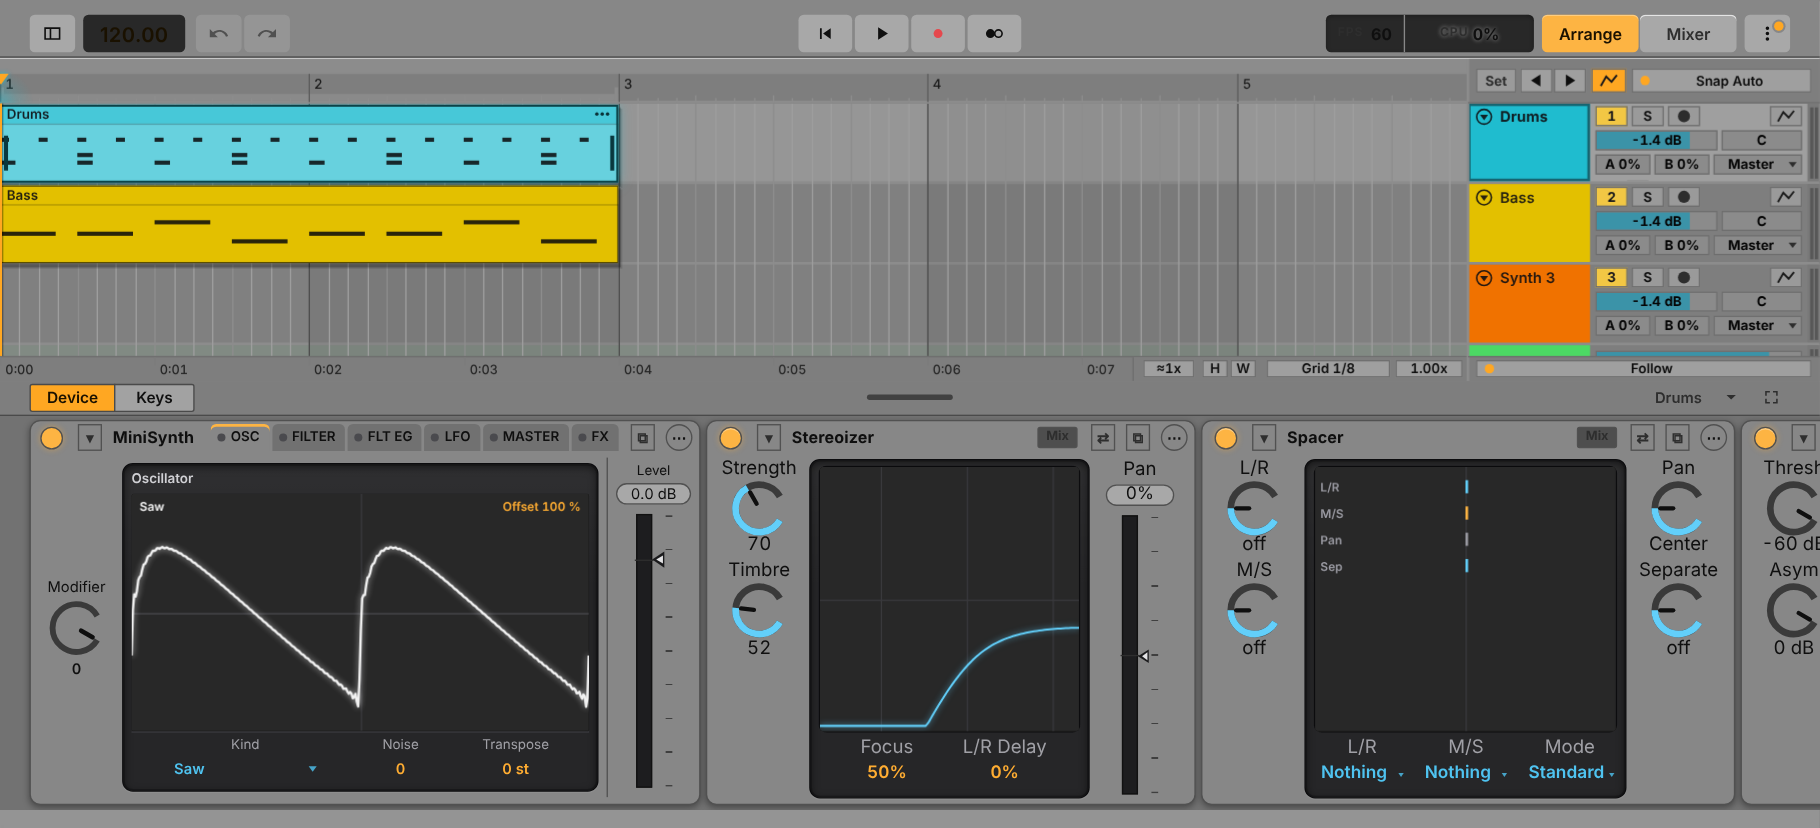
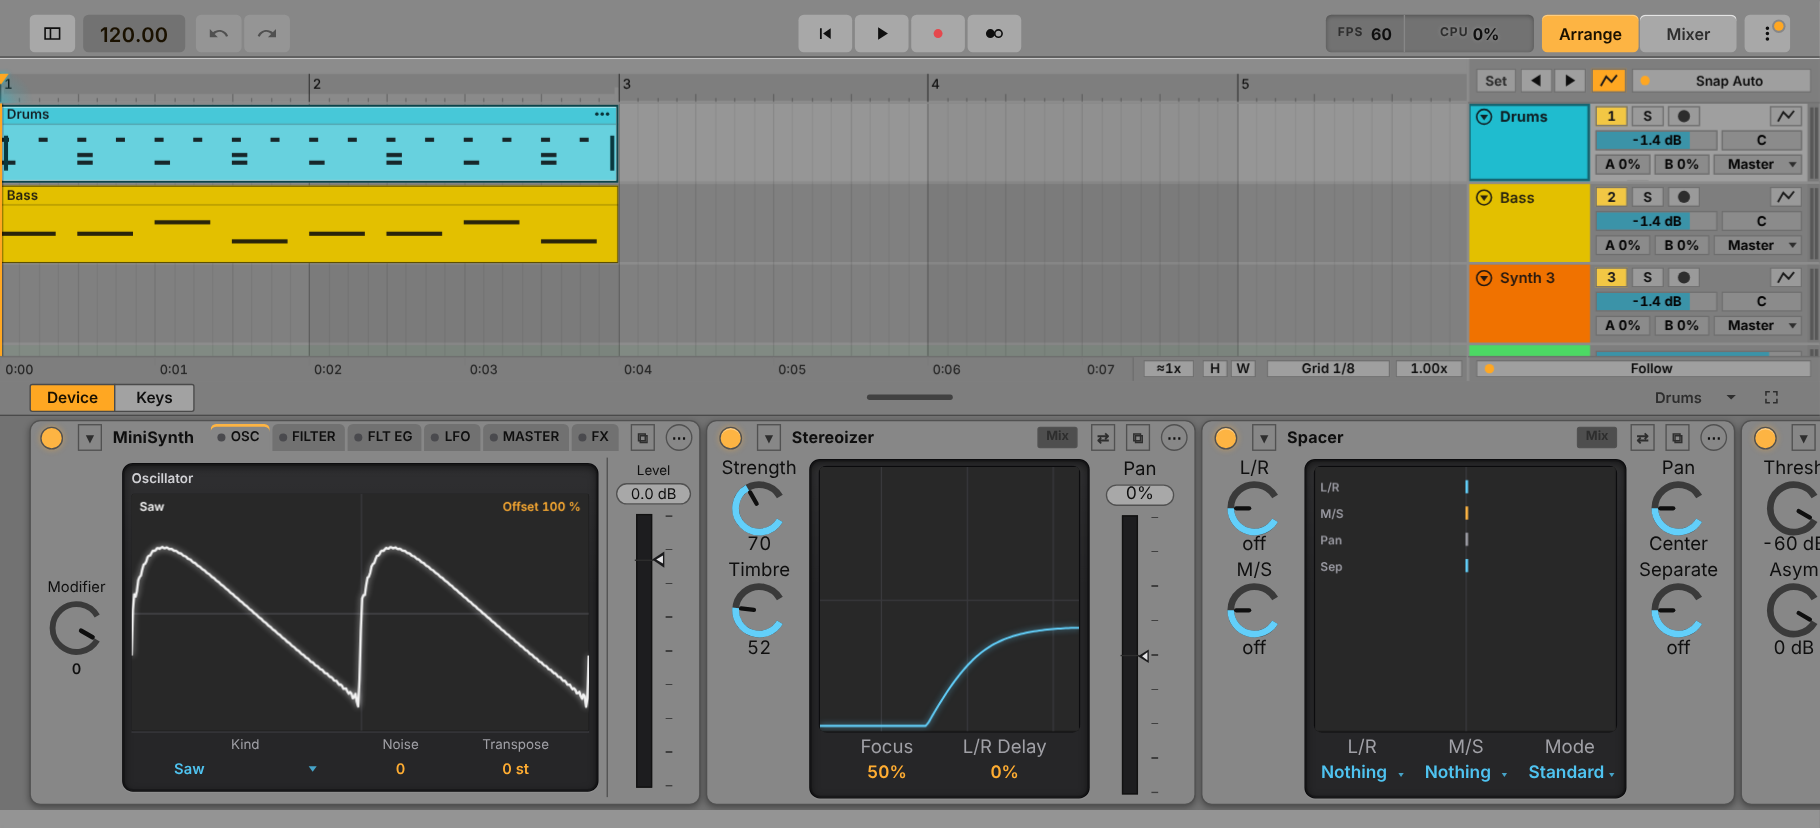
All FLM effects in the FX lists; arrangement grid, ruler, clips and theme sliders after Live
- every FL Studio Mobile audio effect on its DSP is offered (FX menus tag them FLM, the browser
  FLM DSP)
- grid lines and ruler ticks in the theme's ink at four strengths, scaled by Grid Line Intensity;
  flat clips (no shadow or glow), a light inner edge on the selected clip
- theme adjustment sliders: thin track, fill from the centre for bipolar values
- control bar fields readable in light themes
- tests: filter display drags on DirectWave / GMS / SuperSaw, settings slider, FLM list

Claude-Session: https://claude.ai/code/session_016R99TjSh2G5U2VqVgMNHhT

diff --git a/js/timeline.js b/js/timeline.js
@@ -225,9 +225,7 @@ function drawClip(t, c, y, hh) {
   const isSel = state.sel.clip === c.id || msel.has(c.id);
   const tall = hh >= 40, hd = tall ? 14 : 0, y0 = y + 1, h0 = hh - 2;   // folded / short rows: no title strip, only colour + content
   const col = c.muted ? '#8a8a8f' : t.color;                               // deactivated clip: the same neutral grey in every theme (clip colours are not themed)
-  { const sy0 = Math.max(RULER, y0 + 1), sy1 = Math.min(LANE_B(), y0 + h0 + 2);   // depth: a soft shadow below / right of the clip (two dark bands, no blur cost)
-    if (sy1 > sy0) { ctx.fillStyle = 'rgba(0,0,0,.22)'; ctx.fillRect(xs + 2, sy0 + 1, Math.max(0, xe - xs), sy1 - sy0); ctx.fillStyle = 'rgba(0,0,0,.12)'; ctx.fillRect(xs + 3, sy0 + 2, Math.max(0, xe - xs), sy1 - sy0); }
-    if (isSel && !c.muted) { ctx.save(); ctx.shadowColor = washRgba(t.color, 0.85); ctx.shadowBlur = 12; ctx.fillStyle = washRgba(t.color, 0.6); ctx.fillRect(xs, Math.max(RULER, y0), Math.max(0, xe - xs), Math.max(0, Math.min(LANE_B(), y0 + h0) - Math.max(RULER, y0))); ctx.restore(); } }   // selected: a glow in its colour
+  // Live's clips are flat: no drop shadow, no glow (the selection shows as a lighter body and a light edge, drawn below)
   ctx.save();
   const cy0 = Math.max(RULER, y0), cy1 = Math.min(LANE_B(), y0 + h0);              // clipped to the clip itself and the lane area: notes never spill while it glides
   ctx.beginPath(); ctx.rect(xs, cy0, Math.max(0, xe - xs), Math.max(0, cy1 - cy0)); ctx.clip();
@@ -238,6 +236,7 @@ function drawClip(t, c, y, hh) {
   ctx.fillStyle = body; ctx.fillRect(x, y0, w, h0);
   if (tall) { ctx.fillStyle = isSel ? tint(col, 0.18) : col; ctx.fillRect(x, y0, w, hd); ctx.fillStyle = 'rgba(0,0,0,.22)'; ctx.fillRect(x, y0 + hd, w, 1); }
   ctx.strokeStyle = 'rgba(0,0,0,.6)'; ctx.lineWidth = 1; ctx.strokeRect(Math.round(x) + 0.5, y0 + 0.5, Math.max(0, Math.round(w) - 1), h0 - 1);
+  if (isSel && !c.muted) { ctx.strokeStyle = 'rgba(255,255,255,.85)'; ctx.strokeRect(Math.round(x) + 1.5, y0 + 1.5, Math.max(0, Math.round(w) - 3), h0 - 3); }   // selected: a light inner edge
   if (tall && w > 18) {
     ctx.fillStyle = ink(col); ctx.font = FONT(600, 10); ctx.textBaseline = 'middle';
     ctx.fillText(c.name || (c.sample ? c.sample.name : t.name), xs + 5, y0 + hd / 2 + 0.5, Math.max(0, xe - xs - 10));
@@ -345,22 +344,23 @@ function draw() {
     xl.push({ y, h, t: `${src} track aktif → ${x.name}` });
   }
   const gy1 = Math.min(LB, rowY(nn));                                                   // grid only over the rows, not over the "+" row and the empty space below
-  { const barPx = BAR * view.ppt; let kb = 1; while (barPx * kb < 34) kb *= 2;                    // the same step as the ruler's bar numbers
-    ctx.fillStyle = currentTone() === 'light' ? 'rgba(0,0,0,.045)' : 'rgba(0,0,0,.10)';
-    for (let b = Math.floor(Math.max(0, P.barAt(view.x0)) / kb) * kb; tx(P.barStart(b)) < CW; b += kb) { if ((b / kb) & 1) { const x0 = tx(P.barStart(b)), x1 = tx(P.barStart(b + kb)); ctx.fillRect(x0, RULER, x1 - x0, gy1 - RULER); } } }
-  ctx.globalAlpha = clamp(0.25 + 1.5 * (prefs.gridInt == null ? 0.5 : prefs.gridInt), 0.1, 1);
-  // grid: beats faint, bars stronger (drawn per bar, so 7/8 and signature changes stay right)
-  const tEnd = view.x0 + CW / view.ppt + g;
+  // grid (Live 12): flat lines in the theme's ink at four strengths - every labelled bar (the ruler's step) > bar > beat > subdivision - so a
+  // zoomed-out arrangement is not striped with bright bar lines; every other labelled group a shade darker. Grid Line Intensity scales them.
+  const barPx = BAR * view.ppt; let kb = 1; while (barPx * kb < 34) kb *= 2;                     // the same step as the ruler's bar numbers
+  const light = currentTone() === 'light', INK = light ? '0,0,0' : '255,255,255', GI = 0.4 + 1.2 * (prefs.gridInt == null ? 0.5 : prefs.gridInt), line = (a) => `rgba(${INK},${Math.min(0.6, a * GI).toFixed(3)})`;
+  ctx.fillStyle = light ? 'rgba(0,0,0,.04)' : 'rgba(0,0,0,.12)';
+  for (let b = Math.floor(Math.max(0, P.barAt(view.x0)) / kb) * kb; tx(P.barStart(b)) < CW; b += kb) { if ((b / kb) & 1) { const x0 = tx(P.barStart(b)), x1 = tx(P.barStart(b + kb)); ctx.fillRect(x0, RULER, x1 - x0, gy1 - RULER); } }
+  const tEnd = view.x0 + CW / view.ppt + g, sub = line(light ? 0.05 : 0.035), beat = line(light ? 0.09 : 0.065);
   eachGrid(view.x0 - g, tEnd, g, (t, j) => {
     const x = Math.round(tx(t));
     if (x < 0 || x > CW) return;
     const r = t - P.MM.T[j];
     if (r % P.MM.bl[j] === 0) return;
-    ctx.fillStyle = r % P.MM.bt[j] === 0 ? C('#4a4a50') : C('#3a3a3f');   // beat lines clearly visible, sub-beats fainter
+    ctx.fillStyle = r % P.MM.bt[j] === 0 ? beat : sub;
     ctx.fillRect(x, RULER, 1, gy1 - RULER);
   });
-  ctx.globalAlpha = 1; ctx.fillStyle = C('#74747c');
-  for (let b = Math.max(0, P.barAt(view.x0)); tx(P.barStart(b)) < CW; b++) { const x = Math.round(tx(P.barStart(b))); if (x >= 0) ctx.fillRect(x, RULER, 1, gy1 - RULER); }
+  const barL = line(light ? 0.14 : 0.10), grpL = line(light ? 0.24 : 0.19);
+  for (let b = Math.max(0, P.barAt(view.x0)); tx(P.barStart(b)) < CW; b++) { const x = Math.round(tx(P.barStart(b))); if (x >= 0) { ctx.fillStyle = b % kb ? barL : grpL; ctx.fillRect(x, RULER, 1, gy1 - RULER); } }
   if (P.state.sigs.length) { ctx.fillStyle = 'rgba(255,167,34,.3)'; for (const c of P.state.sigs) { const x = Math.round(tx(P.barStart(c.bar))); if (x >= 0 && x <= CW) ctx.fillRect(x, RULER, 1, gy1 - RULER); } }
   for (const m of state.markers) { const x = Math.round(tx(m.t)); if (x < 0 || x > CW) continue; ctx.fillStyle = C('#0e0e10'); ctx.fillRect(x, RULER, 1, gy1 - RULER); }   // Live: a dark line down from every locator
   const PU = state.punch;
@@ -444,13 +444,14 @@ function drawRuler(g) {
   ctx.font = FONT(500, 10); ctx.textBaseline = 'top';
   const barPx = BAR * view.ppt; let k = 1; while (barPx * k < 34) k *= 2;
   const chg = new Map(P.state.sigs.map((c) => [c.bar, c]));
-  ctx.fillStyle = C('#4a4a50');
-  eachGrid(view.x0 - g, view.x0 + CW / view.ppt + g, g, (t, j) => { const r = (t - P.MM.T[j]) % P.MM.bl[j]; if (r) ctx.fillRect(Math.round(tx(t)), r % P.MM.bt[j] ? RULER - 4 : RULER - 6, 1, r % P.MM.bt[j] ? 3 : 5); });
+  const RI = currentTone() === 'light' ? '0,0,0' : '255,255,255';
+  ctx.fillStyle = `rgba(${RI},.22)`;
+  eachGrid(view.x0 - g, view.x0 + CW / view.ppt + g, g, (t, j) => { const r = (t - P.MM.T[j]) % P.MM.bl[j]; if (r) ctx.fillRect(Math.round(tx(t)), r % P.MM.bt[j] ? RULER - 4 : RULER - 7, 1, r % P.MM.bt[j] ? 3 : 6); });   // Live: beat ticks taller than subdivisions
   for (let b = Math.floor(Math.max(0, P.barAt(view.x0)) / k) * k; tx(P.barStart(b)) < CW; b++) {
     const c = chg.get(b), x = Math.round(tx(P.barStart(b)));
-    if (b % k && !c) { ctx.fillStyle = C('#4a4a50'); ctx.fillRect(x, RULER - 8, 1, 7); continue; }   // unlabelled bars: a longer tick
-    ctx.fillStyle = c ? C('#ffa722') : C('#6a6a70'); ctx.fillRect(x, MROW, 1, RULER - MROW - 1);
-    const lab = String(b + 1); ctx.fillStyle = c ? C('#ffa722') : C('#b4b4ba'); ctx.fillText(lab, x + 4, MROW + 3);
+    if (b % k && !c) { ctx.fillStyle = `rgba(${RI},.34)`; ctx.fillRect(x, RULER - 10, 1, 9); continue; }   // unlabelled bars: a longer tick
+    ctx.fillStyle = c ? C('#ffa722') : `rgba(${RI},.5)`; ctx.fillRect(x, MROW, 1, RULER - MROW - 1);
+    const lab = String(b + 1); ctx.fillStyle = c ? C('#ffa722') : T('--text'); ctx.fillText(lab, x + 3, MROW + 3);
     if (c) { ctx.font = FONT(700, 9); ctx.fillText(c.n + '/' + c.d, x + 8 + ctx.measureText(lab).width, MROW + 4); ctx.font = FONT(500, 10); }
   }
   if (PUon()) { ctx.fillStyle = C('#ff3636'); ctx.fillRect(tx(state.punch.start), RULER - 3, tx(state.punch.end) - tx(state.punch.start), 2); ctx.fillRect(tx(state.punch.start) - 1, RULER - 11, 4, 9); ctx.fillRect(tx(state.punch.end) - 3, RULER - 11, 4, 9); }

diff --git a/css/ableton.css b/css/ableton.css
@@ -1743,8 +1743,8 @@ html.reduce-motion .lk-tabpg, html.reduce-motion .flm-pg > *, html.reduce-motion
 [data-w="s"] #top .tport .b, [data-w="xs"] #top .tport .b { width: 36px; min-width: 36px; }
 #top .tport, #top .grp.hist { gap: 2px; border: 0; border-radius: 0; overflow: visible; background: transparent; } #top .tport .b + .b, #top .grp.hist .b + .b { border-left: 0; }
 /* control bar fields in the same flat look: tempo, performance, view switch */
-#top-l #rd-bpm { border: 0; border-radius: 4px; box-shadow: none; background: var(--lv-well, var(--well)); }
-#top .perf { border: 0; border-radius: 4px; background: var(--lv-well, var(--well)); } #top .perf .fpsbox { border-right: 1px solid var(--lv-body, var(--panel)); }
+#top-l #rd-bpm { border: 0; border-radius: 4px; box-shadow: none; background: var(--well); }
+#top .perf { border: 0; border-radius: 4px; background: var(--well); color: var(--text); } #top .perf .fpsbox { border-right: 1px solid var(--lv-body, var(--panel)); }
 #top .perf #cpu, #top .cpubox #cpu { border: 0; border-radius: 0; background: transparent; }
 #top .seg { border: 0; border-radius: 4px; gap: 2px; background: transparent; overflow: visible; }
 #top .seg .b { height: var(--cb-h); border-radius: 4px; background: var(--lv-ctl); color: var(--lv-ink); }
@@ -1754,3 +1754,15 @@ html.reduce-motion .lk-tabpg, html.reduce-motion .flm-pg > *, html.reduce-motion
 .fl-live.lk-sf .lk-sfc, .fl-live.lk-sf .lk-sfdk { min-height: 0 !important; }
 .fl-live.lk-sf .lk-sfdk { display: flex; flex-direction: column; flex: 1 1 0; }
 .fl-live.lk-sf .lk-sflist { flex: 1 1 0; height: 0; min-height: 0; overflow-y: auto; overscroll-behavior: contain; }
+/* theme adjustment sliders: Live's thin track, the fill from the zero point (centre for bipolar values), a slim handle; the value lights when changed */
+.thm-adj .sl.thm-sl { height: 26px; }
+.thm-adj .sl.thm-sl::-webkit-slider-runnable-track { height: 4px; border-radius: 2px; box-shadow: none;
+  background: linear-gradient(to right, var(--well, #111) 0 var(--a, 0%), var(--accent) var(--a, 0%) var(--b, 50%), var(--well, #111) var(--b, 50%) 100%); }
+.thm-adj .sl.thm-sl.bip::-webkit-slider-runnable-track { background: linear-gradient(to right, var(--well, #111) 0 var(--a, 50%), var(--accent) var(--a, 50%) var(--b, 50%), var(--well, #111) var(--b, 50%) 100%),
+  linear-gradient(var(--dim), var(--dim)) 50% 50% / 1px 10px no-repeat; }
+.thm-adj .sl.thm-sl::-webkit-slider-thumb { width: 8px; height: 18px; margin-top: -7px; border-radius: 2px; box-shadow: 0 1px 2px rgba(0, 0, 0, .5); }
+.thm-adj .sl.thm-sl::-moz-range-progress { background: transparent; }
+.thm-adj .sl.thm-sl::-moz-range-track { height: 4px; background: linear-gradient(to right, var(--well, #111) 0 var(--a, 0%), var(--accent) var(--a, 0%) var(--b, 50%), var(--well, #111) var(--b, 50%) 100%); }
+.thm-adj .thm-av { font-weight: var(--fw-sb); } .thm-adj .thm-av.on { color: var(--lv-or, var(--accent)); }
+.thm-adj { grid-template-columns: 128px 1fr 76px; min-height: 26px; }
+.thm-adjs > .b { justify-self: start; height: var(--ctl-s); padding: 0 var(--sp-6); border-radius: 4px; }

diff --git a/sw.js b/sw.js
@@ -1,5 +1,5 @@
 // Offline cache. The cache name contains a hash of every file, so a new deploy replaces the old cache automatically.
-const CACHE = 'mobiledaw-be5dec0300c0';
+const CACHE = 'mobiledaw-e0bb56c4bc69';
 const ASSETS = ["./", "./css/app.css", "./css/ableton.css", "./css/float.css", "./css/live.css", "./icons/icon-192.png", "./icons/icon-512.png", "./icons/icon-maskable-512.png", "./index.html", "./js/about.js", "./js/aboutdata.js", "./js/audioedit.js", "./js/autocurve.js", "./js/automate.js", "./js/autosave.js", "./js/browser.js", "./js/chords.js", "./js/colorpick.js", "./js/defs.js", "./js/demos.js", "./js/devices.js", "./js/devviz.js", "./js/drumpad.js", "./js/edgeguard.js", "./js/editor.js", "./js/engine.js", "./js/engine/analog.js", "./js/engine/audioops.js", "./js/engine/cmdtext.js", "./js/engine/core.js", "./js/engine/dsp.js", "./js/engine/drift.js", "./js/engine/ds.js", "./js/engine/fx.js", "./js/engine/fx2.js", "./js/engine/fx3.js", "./js/engine/fx4.js", "./js/engine/fx5.js", "./js/engine/fx6.js", "./js/engine/fx7.js", "./js/engine/fx8.js", "./js/engine/granulator.js", "./js/engine/impulse.js", "./js/engine/instruments.js", "./js/engine/live.js", "./js/engine/meld.js", "./js/engine/meter.js", "./js/engine/mp3.js", "./js/engine/mp3tables.js", "./js/engine/nativesink.js", "./js/engine/operator.js", "./js/engine/phys.js", "./js/engine/poli.js", "./js/engine/sabio.js", "./js/engine/sf2.js", "./js/engine/simpler.js", "./js/engine/flmsyn.js", "./js/engine/hdgms.js", "./js/engine/hdmfx.js", "./js/engine/hdmini.js", "./js/engine/hdsaw.js", "./js/engine/smf.js", "./js/engine/stretchworker.js", "./js/engine/tmap.js", "./js/engine/wav.js", "./js/engine/waveops.js", "./js/engine/mdaw.wasm", "./js/engine/wasmengine.js", "./js/engine/web.js", "./js/engine/worklet-wasm.js", "./js/engine/worklet.js", "./js/floatwin.js", "./js/fps.js", "./js/fxviz.js", "./js/fxkit.js", "./js/flmpanels.js", "./js/flmfx.js", "./js/flm3osc.js", "./js/flmlayout.js", "./js/flmlive.js", "./js/fxlaw.js", "./js/flmviz.js", "./js/gesture.js", "./js/history.js", "./js/import/als.js", "./js/import/build.js", "./js/import/flm.js", "./js/import/flp.js", "./js/import/fxmap.js", "./js/import/gm.js", "./js/import/index.js", "./js/import/ui.js", "./js/keymap.js", "./js/keys.js", "./js/layout.js", "./js/liveinst.js", "./js/liveui.js", "./js/log.js", "./js/main.js", "./js/midi.js", "./js/midiio.js", "./js/minimeters.js", "./js/mmdraw.js", "./js/native.js", "./js/perf.js", "./js/mixer.js", "./js/prefs.js", "./js/presetlib.js", "./js/presets.js", "./js/project.js", "./js/projects.js", "./js/pwa.js", "./js/quicksave.js", "./js/reorder.js", "./js/safdir.js", "./js/settingsui.js", "./js/storage.js", "./js/tempo.js", "./js/theme.js", "./js/timeline.js", "./js/topbar.js", "./js/touchhit.js", "./js/ui.js", "./js/uiscale.js", "./js/waveform.js", "./js/zip.js", "./manifest.json"];
 self.addEventListener('install', (e) => { e.waitUntil(caches.open(CACHE).then((c) => c.addAll(ASSETS)).then(() => self.skipWaiting())); });
 self.addEventListener('activate', (e) => {

diff --git a/js/devices.js b/js/devices.js
@@ -346,7 +346,7 @@ function sideLayout(el) {
 
 // module menu helpers: effect picker, device clipboard (Copy / Paste module, Copy All / Paste All), rack preset picker
 let devClip = null;
-function fxPick(r, fn) { menu(FX_GROUPS.flatMap(([, label, ks]) => [{ label: label.toUpperCase(), dim: true }, ...ks.filter((k) => DEVICES[k]).map((k) => ({ label: DEVICES[k].name, fn: () => fn(k) }))]), Math.max(8, r.left - 40), Math.max(8, r.top - 120)); }
+function fxPick(r, fn) { menu(FX_GROUPS.flatMap(([, label, ks]) => [{ label: label.toUpperCase(), dim: true }, ...ks.filter((k) => DEVICES[k]).map((k) => ({ label: DEVICES[k].name + (DEVICES[k].flm != null && !DEVICES[k].noteFx ? ' (FLM)' : ''), fn: () => fn(k) }))]), Math.max(8, r.left - 40), Math.max(8, r.top - 120)); }
 const report = (x) => { if (x && x.held && x.held.length) toast(`${x.added} modul ditempel; ${x.held.length} sebagai placeholder (tidak ada di versi ini, data disimpan): ${x.held.join(', ')}.`, 4500); else if (x && x.skipped && x.skipped.length) toast(`${x.added} modul ditempel; ${x.skipped.length} dilewati: ${x.skipped.join(', ')}.`, 4000); else if (x) toast(x.added + ' modul ditempel.', 1200); };
 function pasteDevs(i, at) { if (!devClip) return; report(P.insertDeviceCopies(i, at, devClip)); }
 function presetPick(r, i, mode, at) {
@@ -614,7 +614,7 @@ export function render() {
       { label: 'Copy semua modul', dim: !n, fn: () => { devClip = P.devicesSnapshot(i); toast(n + ' modul disalin.', 1200); } },
       { label: 'Paste semua (ganti rantai)\u2026', dim: !devClip, fn: () => modal('Ganti rantai efek?', `${n} modul di rantai ini diganti dengan ${devClip.length} modul yang disalin. Bisa dibatalkan dengan Urungkan.`, [{ label: 'Batal' }, { label: 'Ganti', go: true, fn: () => { const x = P.replaceChain(i, devClip); report(x); } }]) },
       { label: 'Paste di akhir', dim: !devClip || full, fn: () => pasteDevs(i, n) },
-      ...(full ? [{ label: 'Rantai penuh (16 efek)', dim: true }] : FX_GROUPS.flatMap(([, label, ks]) => [{ label: label.toUpperCase(), dim: true }, ...ks.filter((k) => DEVICES[k]).map((k) => ({ label: DEVICES[k].name, fn: () => P.addDevice(i, k) }))])),
+      ...(full ? [{ label: 'Rantai penuh (16 efek)', dim: true }] : FX_GROUPS.flatMap(([, label, ks]) => [{ label: label.toUpperCase(), dim: true }, ...ks.filter((k) => DEVICES[k]).map((k) => ({ label: DEVICES[k].name + (DEVICES[k].flm != null && !DEVICES[k].noteFx ? ' (FLM)' : ''), fn: () => P.addDevice(i, k) }))])),
     ], Math.max(8, r.left - 40), Math.max(8, r.top - 120));
   } }, h('b', { 'aria-hidden': 'true' }, '+'), h('span', {}, full ? 'Rantai penuh (16 efek)' : 'Ketuk untuk menambah efek'), h('small', {}, 'atau seret efek dari Browser ke sini'));
   put(add, 'add');

diff --git a/js/settingsui.js b/js/settingsui.js
@@ -300,8 +300,8 @@ export function openSettings() {
   }));
   // Live 12's theme adjustments: Tone, Brightness, Contrast, Color Intensity, Color Hue, Grid Line Intensity - on top of the chosen theme
   const adjRow = (label, key, min, max, step, fmt) => { const cur = () => (key === 'gridInt' ? (prefs.gridInt == null ? 0.5 : prefs.gridInt) : themeAdjust()[key]);
-    const val = h('span', { class: 'thm-av' }), sl = h('input', { type: 'range', min, max, step, value: cur(), 'aria-label': label });
-    const show = () => { val.textContent = fmt(+sl.value); sl.style.setProperty('--p', ((+sl.value - min) / (max - min) * 100) + '%'); };
+    const bip = min < 0, val = h('span', { class: 'thm-av' }), sl = h('input', { type: 'range', class: 'sl thm-sl' + (bip ? ' bip' : ''), min, max, step, value: cur(), 'aria-label': label });
+    const show = () => { const p = (+sl.value - min) / (max - min) * 100, z = bip ? 50 : 0; val.textContent = fmt(+sl.value); sl.style.setProperty('--p', p + '%'); sl.style.setProperty('--a', Math.min(p, z) + '%'); sl.style.setProperty('--b', Math.max(p, z) + '%'); val.classList.toggle('on', Math.abs(+sl.value - (key === 'gridInt' ? 0.5 : 0)) > 1e-6); };   // bipolar: filled from the centre, as Live's
     const put = () => { if (key === 'gridInt') { prefs.gridInt = +sl.value; window.dispatchEvent(new Event('themechange')); } else { prefs.themeAdj = { ...themeAdjust(), [key]: +sl.value }; setThemeAdjust(prefs.themeAdj); } show(); };
     sl.addEventListener('input', put); sl.addEventListener('change', savePrefs); sl.addEventListener('dblclick', () => { sl.value = key === 'gridInt' ? 0.5 : 0; put(); savePrefs(); }); show();
     return h('label', { class: 'thm-adj' }, h('span', { class: 'thm-al' }, label), sl, val); };

diff --git a/js/defs.js b/js/defs.js
@@ -736,7 +736,9 @@ for (const [id, m] of Object.entries(FLMFX)) {
 }
 // "merged": an FLM module whose function a MobileDAW effect already covers (EQ, compressor, reverb, chorus, ...) is not offered a second time;
 // an imported project keeps running it on FLM's DSP under its own name. Offered in the pickers: the FLM modules MobileDAW has no counterpart for.
-const FLM_PICK = [104, 116, 118, 143, 141, 125, 145, 140, 144];   // Multi FX, Trance Delay, Tape Delay, Wow & Flutter, Waveshaper, Pitcher, Pitcher 2, Comb Filter, Spreader
+// every FL Studio Mobile effect on its own DSP (the owner wants them all in the FX lists), in FLM's menu groups: EQ / filter, dynamics, delay /
+// modulation, reverb / space, distortion / shaping, pitch, utility
+const FLM_PICK = [103, 107, 130, 109, 140, 108, 136, 128, 105, 127, 129, 110, 120, 116, 118, 143, 111, 113, 114, 146, 132, 112, 135, 134, 115, 144, 106, 141, 104, 125, 145, 142];
 const FLM_NOTE_PICK = [151, 147, 148, 149, 150];                  // note effects: Arpeggiator, Note Echo, Transpose, Randomizer, Scale
 export const FX_GROUPS = [['loop', 'Delay & Loop', [19, 17, 6, 18, 43, 45, 46, 52]], ['drive', 'Drive & Color', [33, 34, 29, 37, 26, 27, 35, 36, 9, 3, 28]], ['dyn', 'Dynamics', [4, 23, 24, 5, 38, 10]],
   ['eq', 'EQ & Filters', [1, 25, 31, 2]], ['mod', 'Pitch & Modulation', [22, 20, 21, 42]], ['rev', 'Reverb & Resonance', [40, 44, 39, 7, 47, 41]], ['modu', 'Modulators', [50, 48, 49]], ['util', 'Utilities', [51, 0, 32, 30, 16, 14, 15]],

diff --git a/js/browser.js b/js/browser.js
@@ -202,7 +202,7 @@ function tabFx() {
   out.push(h('div', { class: 'hint' }, 'Ketuk = tambah ke track terpilih. Seret ke track atau Master di arrangement. \u25B6 = dengar dulu.'));
   for (const [g, label, ks] of FX_GROUPS) {
     out.push(head(label, g));
-    for (const k of ks) if (DEVICES[k]) out.push(withAud(row(DEVICES[k].name, () => tapFx(k), '', '', null, dFx(k)), fxAud([{ type: k }])));
+    for (const k of ks) if (DEVICES[k]) out.push(withAud(row(DEVICES[k].name, () => tapFx(k), DEVICES[k].flm != null ? 'FLM DSP' : '', '', null, dFx(k)), fxAud([{ type: k }])));   // FLM modules carry a tag: several share a Live device's name
   }
   return out;
 }

diff --git a/docs/HANDOFF.md b/docs/HANDOFF.md
@@ -748,6 +748,9 @@ Permintaan pemilik: SEMUA efek dan instrumen diganti dengan set stok Ableton Liv
 - **Control bar**: tombol terpisah, rata, tanpa garis luar, radius 4 px, satu tinggi; ikon metronom dua titik dan ikon browser panel ala Live (`ui.js` `metro`, `panel`).
 - **Arrangement, lanjutan**: tombol **Automation Mode** di pojok header (`prefs.autoMode`; mati = lane otomasi tinggi 0), **Waveform Vertical Zoom** (`prefs.waveZoom`, lencana `≈1x` kanan bawah; `wavePath`/`peaksPath` opsi `gain`), warna klip + header ikut Color Intensity / Hue (`theme.js tone()`). Kotak tempo, FPS/CPU, Arrange/Mixer ikut gaya rata.
 - **SoundFont**: daftar preset menggulir di dalam card (`.lk-sf .lk-sflist` flex 1 1 0), card tidak lagi memanjang.
+- **Semua 32 efek FLM di daftar FX** (`defs.js FLM_PICK`, grup "FL Studio Mobile"): di menu bertanda ` (FLM)`, di Browser label `FLM DSP` (beberapa namanya sama dengan device Live).
+- **Grid / ruler / klip**: garis grid warna tinta tema (hitam di tema terang, putih di gelap) dengan 4 tingkat (bar berlabel > bar > beat > sub), dikali Grid Line Intensity; ruler pakai tinta yang sama, angka `--text`. Klip rata (tanpa bayangan / glow), klip terpilih = badan lebih terang + tepi dalam terang.
+- **Slider penyesuaian tema**: gaya Live (track tipis, isi dari tengah untuk nilai bipolar, nilai oranye saat diubah).
 - Belum: instrumen replika Live (Drift, Operator, Analog, Poli, Meld, Wavetable, Simpler, Impulse, Granulator, Electric/Tension/Collision, DS) tidak diubah; penanda slice di display Slicer belum ada.
 
 - **Card modul FLM = device Live** (permintaan pemilik: bahasa desain, perilaku dan interaksi card FX Ableton Live): `fxkit.js flmLive` + komposisi per modul di `js/flmlive.js` (37 efek + Transistor Bass / Slicer), dibangun dari bagian yang sama dengan panel Live 12 (`k.dk` display gelap, `k.NT` angka oranye, `k.TL`, `lk-ch`). Pola: kolom knob kiri (`L`) | display (`D`: grafik `flmviz`, `handles` yang diseret seperti Live - EQ band bernomor, ring Filter freq/reso, Threshold Compressor / Gate / Limiter, crossover Multiband, X/Y Waveshaper & Multi FX, 8 band Graphic / Tuned EQ; `tabs` = tombol mode di bawah grafik; `rows` = baris angka di dalam display, `table` = tabel band ala Multiband Dynamics; `tap` keyboard Pitcher; `piano` Scale) | baris knob di bawah display (`B`, ala Chorus-Ensemble / Phaser-Flanger / Auto Pan) | kolom kanan (`R`) dengan Dry/Wet di bawah (`'-'`). Equalizer meniru EQ Eight: band terpilih (Freq / Gain / Q di kiri, tombol 1-4 + tipe + channel di bawah display). `{ sw }` = Sync ala Live (menu saat Sync, knob saat bebas). Tes interaksi nyata di `tools/flmfx-shots.mjs` (seret ring Filter, ketuk keyboard Pitcher 2). 3x Osc masih memakai `flmLayout` (tab).
